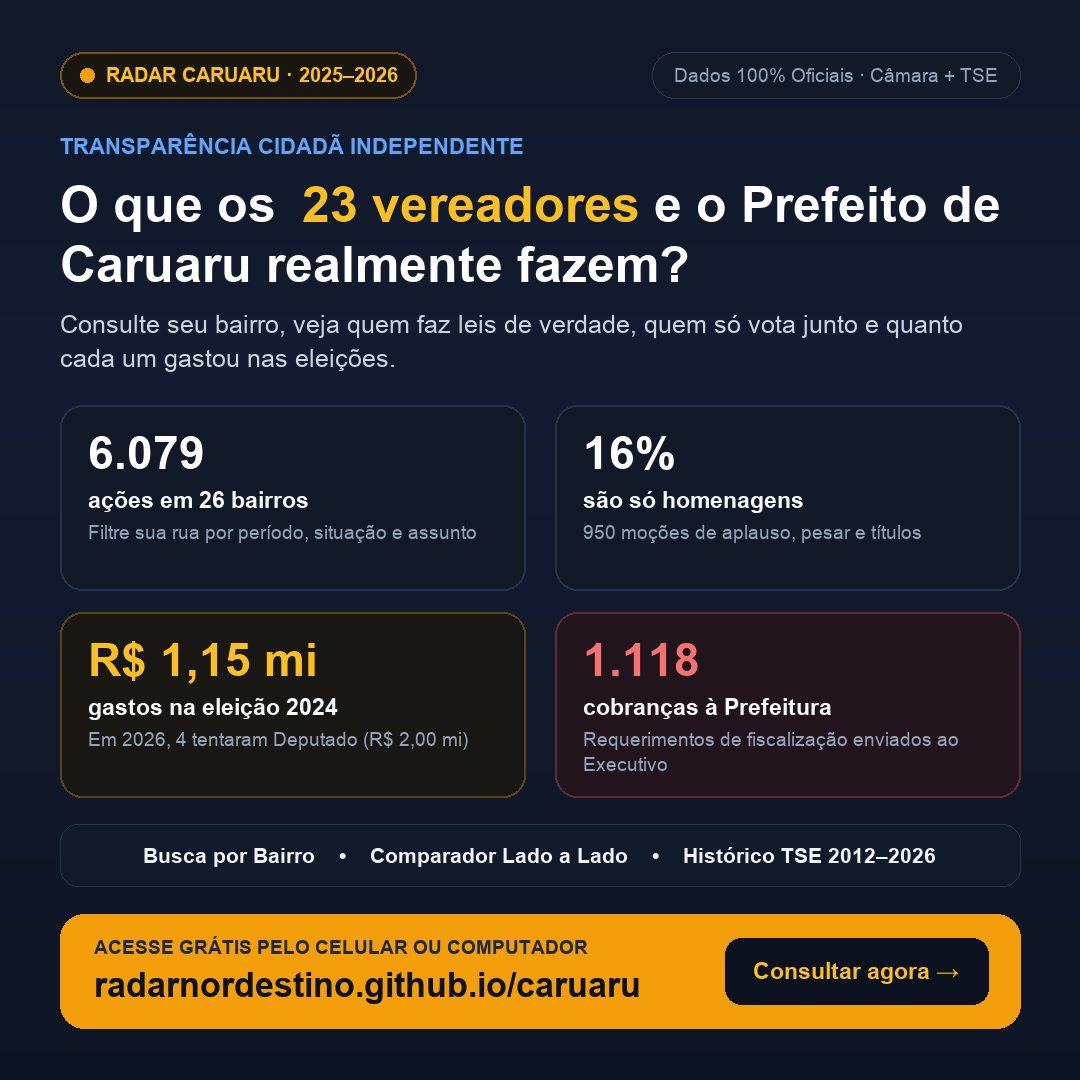
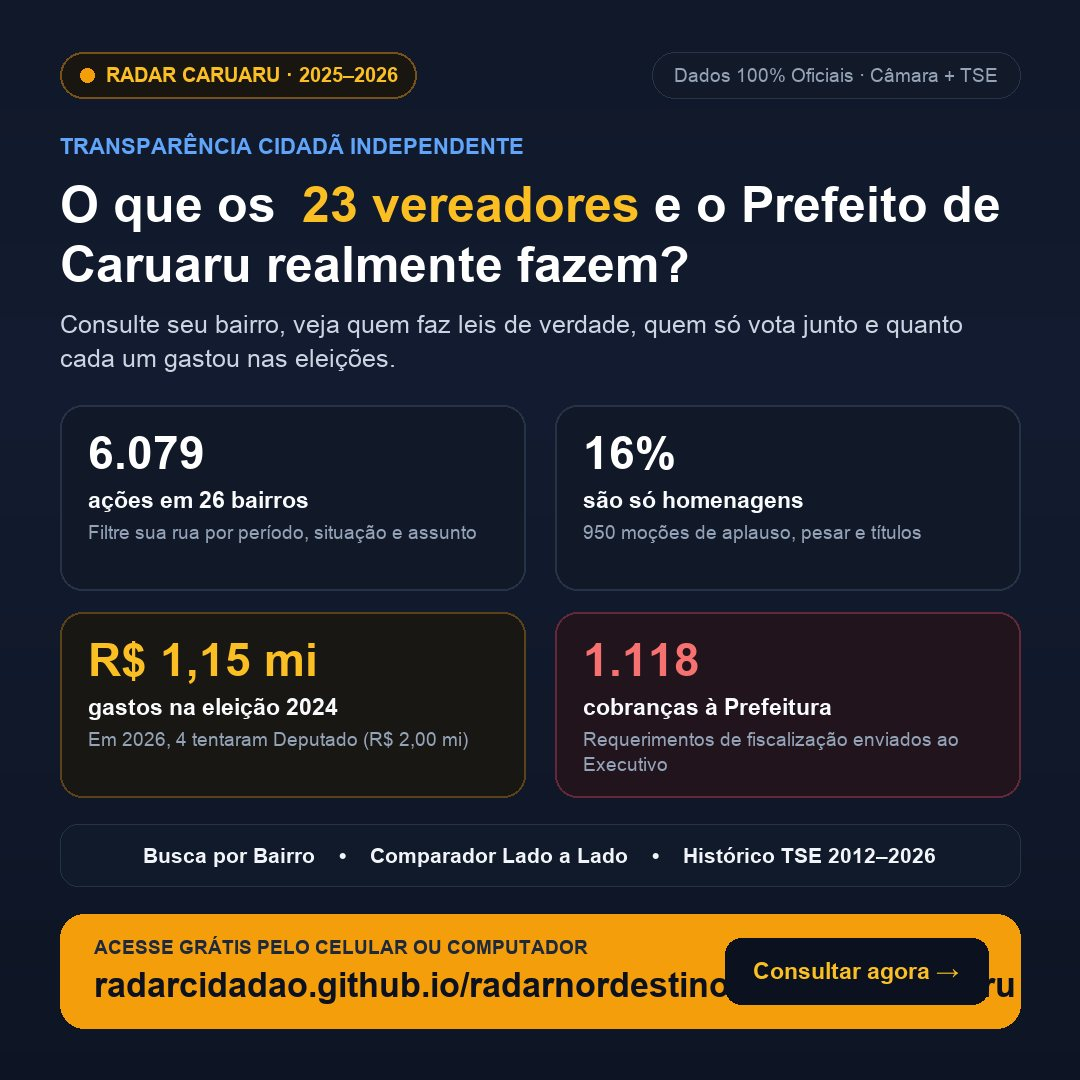
chore: ajustar URL base do GitHub Pages sob radarcidadao

Changed region(s): [[0.1528, 0.8861, 0.6722, 0.9472], [0.9167, 0.8861, 0.9472, 0.9472]]

diff --git a/santoantoniodejesus/index.html b/santoantoniodejesus/index.html
@@ -6,14 +6,14 @@
 <title>Radar Santo Antônio de Jesus — O que os 14 vereadores e o Prefeito realmente fazem</title>
 <meta name="description" content="Consulte seu bairro em Santo Antônio de Jesus, veja quem faz leis de verdade, quem só vota junto e quanto cada vereador gastou nas eleições (dados oficiais Câmara + TSE).">
 <meta property="og:type" content="website">
-<meta property="og:url" content="https://radarnordestino.github.io/santoantoniodejesus/">
+<meta property="og:url" content="https://radarcidadao.github.io/radarnordestino.github.io/santoantoniodejesus/">
 <meta property="og:title" content="Radar Santo Antônio de Jesus — O que os 14 vereadores e o Prefeito fazem?">
 <meta property="og:description" content="Raio-X dos 14 vereadores e do Prefeito de Santo Antônio de Jesus: salários em tempo real, gastos de campanha (R$ 236,2 mil em 2024 no TSE) e canais oficiais de cobrança.">
-<meta property="og:image" content="https://radarnordestino.github.io/santoantoniodejesus/card-whatsapp.jpg">
+<meta property="og:image" content="https://radarcidadao.github.io/radarnordestino.github.io/santoantoniodejesus/card-whatsapp.jpg">
 <meta property="og:image:width" content="1080">
 <meta property="og:image:height" content="1080">
 <meta name="twitter:card" content="summary_large_image">
-<meta name="twitter:image" content="https://radarnordestino.github.io/santoantoniodejesus/card-whatsapp.jpg">
+<meta name="twitter:image" content="https://radarcidadao.github.io/radarnordestino.github.io/santoantoniodejesus/card-whatsapp.jpg">
 <link rel="icon" href="../favicon.ico" sizes="any">
 <link rel="icon" type="image/png" href="../favicon.png">
 <link rel="apple-touch-icon" href="../apple-touch-icon.png">
@@ -842,7 +842,7 @@ const repHTML=g=>`<button class="rp" type="button" data-g="${D.rep.indexOf(g)}">
   <span class="rr">${esc(g.r)}</span><span class="rb">${esc(g.b||CIDADE)}</span>
   <span class="rm"><span class="lab">${esc(THX[g.th]?THX[g.th][1]:'Melhoria')}</span><span>${g.a} ${g.a===1?'vereador pediu':'vereadores pediram'}</span><span>·</span><span>de ${mesAno(g.d0)} a ${mesAno(g.d1)}</span></span><span class="go" style="grid-column:1/-1;color:var(--red);font-weight:700;font-size:14px;margin-top:6px">Ver pedidos e cobrar →</span></button>`;
 const TEMA={luz:'iluminação',asf:'conserto de asfalto',tra:'melhoria no trânsito',agu:'conserto de água e esgoto',lim:'limpeza e poda',cal:'conserto de calçada',laz:'melhoria em praça e área de lazer',sau:'melhoria na saúde',edu:'melhoria em escola',seg:'segurança',bus:'melhoria no ônibus'};
-const SITE=/^https?:/.test(location.protocol)?location.origin+location.pathname:'https://radarnordestino.github.io/santoantoniodejesus/';
+const SITE=/^https?:/.test(location.protocol)?location.origin+location.pathname:'https://radarcidadao.github.io/radarnordestino.github.io/santoantoniodejesus/';
 function openRep(g){
   openSheet('b',THX[g.th]?THX[g.th][2]:'pin',g.r,`${THX[g.th]?THX[g.th][1]:'Melhoria'} · pedido ${g.n} vezes até agora${g.b?' · '+g.b:''}`);
   const cnt=new Map(); g.items.forEach(it=>it[6].forEach(a=>cnt.set(a,(cnt.get(a)||0)+1)));

diff --git a/cruzdasalmas/index.html b/cruzdasalmas/index.html
@@ -6,14 +6,14 @@
 <title>Radar Cruz das Almas — O que os 15 vereadores e o Prefeito realmente fazem</title>
 <meta name="description" content="Consulte seu bairro em Cruz das Almas, veja quem faz leis de verdade, quem só vota junto e quanto cada vereador gastou nas eleições (dados oficiais Câmara + TSE).">
 <meta property="og:type" content="website">
-<meta property="og:url" content="https://radarnordestino.github.io/cruzdasalmas/">
+<meta property="og:url" content="https://radarcidadao.github.io/radarnordestino.github.io/cruzdasalmas/">
 <meta property="og:title" content="Radar Cruz das Almas — O que os 15 vereadores e o Prefeito fazem?">
 <meta property="og:description" content="Raio-X dos 15 vereadores e do Prefeito de Cruz das Almas: salários em tempo real, gastos de campanha (R$ 411,3 mil em 2024 no TSE) e canais oficiais de cobrança.">
-<meta property="og:image" content="https://radarnordestino.github.io/cruzdasalmas/card-whatsapp.jpg">
+<meta property="og:image" content="https://radarcidadao.github.io/radarnordestino.github.io/cruzdasalmas/card-whatsapp.jpg">
 <meta property="og:image:width" content="1080">
 <meta property="og:image:height" content="1080">
 <meta name="twitter:card" content="summary_large_image">
-<meta name="twitter:image" content="https://radarnordestino.github.io/cruzdasalmas/card-whatsapp.jpg">
+<meta name="twitter:image" content="https://radarcidadao.github.io/radarnordestino.github.io/cruzdasalmas/card-whatsapp.jpg">
 <link rel="icon" href="../favicon.ico" sizes="any">
 <link rel="icon" type="image/png" href="../favicon.png">
 <link rel="apple-touch-icon" href="../apple-touch-icon.png">
@@ -842,7 +842,7 @@ const repHTML=g=>`<button class="rp" type="button" data-g="${D.rep.indexOf(g)}">
   <span class="rr">${esc(g.r)}</span><span class="rb">${esc(g.b||CIDADE)}</span>
   <span class="rm"><span class="lab">${esc(THX[g.th]?THX[g.th][1]:'Melhoria')}</span><span>${g.a} ${g.a===1?'vereador pediu':'vereadores pediram'}</span><span>·</span><span>de ${mesAno(g.d0)} a ${mesAno(g.d1)}</span></span><span class="go" style="grid-column:1/-1;color:var(--red);font-weight:700;font-size:14px;margin-top:6px">Ver pedidos e cobrar →</span></button>`;
 const TEMA={luz:'iluminação',asf:'conserto de asfalto',tra:'melhoria no trânsito',agu:'conserto de água e esgoto',lim:'limpeza e poda',cal:'conserto de calçada',laz:'melhoria em praça e área de lazer',sau:'melhoria na saúde',edu:'melhoria em escola',seg:'segurança',bus:'melhoria no ônibus'};
-const SITE=/^https?:/.test(location.protocol)?location.origin+location.pathname:'https://radarnordestino.github.io/cruzdasalmas/';
+const SITE=/^https?:/.test(location.protocol)?location.origin+location.pathname:'https://radarcidadao.github.io/radarnordestino.github.io/cruzdasalmas/';
 function openRep(g){
   openSheet('b',THX[g.th]?THX[g.th][2]:'pin',g.r,`${THX[g.th]?THX[g.th][1]:'Melhoria'} · pedido ${g.n} vezes até agora${g.b?' · '+g.b:''}`);
   const cnt=new Map(); g.items.forEach(it=>it[6].forEach(a=>cnt.set(a,(cnt.get(a)||0)+1)));

diff --git a/campinagrande/index.html b/campinagrande/index.html
@@ -6,14 +6,14 @@
 <title>Radar Campina Grande — O que os 23 vereadores e o Prefeito realmente fazem</title>
 <meta name="description" content="Consulte seu bairro em Campina Grande, veja quem faz leis de verdade, quem só vota junto e quanto cada vereador gastou nas eleições (dados oficiais Câmara + TSE).">
 <meta property="og:type" content="website">
-<meta property="og:url" content="https://radarnordestino.github.io/campinagrande/">
+<meta property="og:url" content="https://radarcidadao.github.io/radarnordestino.github.io/campinagrande/">
 <meta property="og:title" content="Radar Campina Grande — O que os 23 vereadores e o Prefeito fazem?">
 <meta property="og:description" content="6.016 ações em 30 bairros, gastos de campanha (R$ 1,94 mi em 2024 + R$ 2,37 mi dos 5 candidatos a deputado em 2026) e comparador lado a lado.">
-<meta property="og:image" content="https://radarnordestino.github.io/campinagrande/card-whatsapp.jpg">
+<meta property="og:image" content="https://radarcidadao.github.io/radarnordestino.github.io/campinagrande/card-whatsapp.jpg">
 <meta property="og:image:width" content="1080">
 <meta property="og:image:height" content="1080">
 <meta name="twitter:card" content="summary_large_image">
-<meta name="twitter:image" content="https://radarnordestino.github.io/campinagrande/card-whatsapp.jpg">
+<meta name="twitter:image" content="https://radarcidadao.github.io/radarnordestino.github.io/campinagrande/card-whatsapp.jpg">
 <link rel="icon" href="../favicon.ico" sizes="any">
 <link rel="icon" type="image/png" href="../favicon.png">
 <link rel="apple-touch-icon" href="../apple-touch-icon.png">
@@ -842,7 +842,7 @@ const repHTML=g=>`<button class="rp" type="button" data-g="${D.rep.indexOf(g)}">
   <span class="rr">${esc(g.r)}</span><span class="rb">${esc(g.b||CIDADE)}</span>
   <span class="rm"><span class="lab">${esc(THX[g.th]?THX[g.th][1]:'Melhoria')}</span><span>${g.a} ${g.a===1?'vereador pediu':'vereadores pediram'}</span><span>·</span><span>de ${mesAno(g.d0)} a ${mesAno(g.d1)}</span></span><span class="go" style="grid-column:1/-1;color:var(--red);font-weight:700;font-size:14px;margin-top:6px">Ver pedidos e cobrar →</span></button>`;
 const TEMA={luz:'iluminação',asf:'conserto de asfalto',tra:'melhoria no trânsito',agu:'conserto de água e esgoto',lim:'limpeza e poda',cal:'conserto de calçada',laz:'melhoria em praça e área de lazer',sau:'melhoria na saúde',edu:'melhoria em escola',seg:'segurança',bus:'melhoria no ônibus'};
-const SITE=/^https?:/.test(location.protocol)?location.origin+location.pathname:'https://radarnordestino.github.io/campinagrande/';
+const SITE=/^https?:/.test(location.protocol)?location.origin+location.pathname:'https://radarcidadao.github.io/radarnordestino.github.io/campinagrande/';
 function openRep(g){
   openSheet('b',THX[g.th]?THX[g.th][2]:'pin',g.r,`${THX[g.th]?THX[g.th][1]:'Melhoria'} · pedido ${g.n} vezes até agora${g.b?' · '+g.b:''}`);
   const cnt=new Map(); g.items.forEach(it=>it[6].forEach(a=>cnt.set(a,(cnt.get(a)||0)+1)));

diff --git a/maracanau/index.html b/maracanau/index.html
@@ -6,14 +6,14 @@
 <title>Radar Maracanaú — O que os 21 vereadores e o Prefeito realmente fazem</title>
 <meta name="description" content="Consulte seu bairro em Maracanaú, veja quem faz leis de verdade, quem só vota junto e quanto cada vereador gastou nas eleições (dados oficiais Câmara + TSE).">
 <meta property="og:type" content="website">
-<meta property="og:url" content="https://radarnordestino.github.io/maracanau/">
+<meta property="og:url" content="https://radarcidadao.github.io/radarnordestino.github.io/maracanau/">
 <meta property="og:title" content="Radar Maracanaú — O que os 21 vereadores e o Prefeito fazem?">
 <meta property="og:description" content="Raio-X dos 21 vereadores e do Prefeito de Maracanaú: salários em tempo real, gastos de campanha (R$ 1,03 mi em 2024 no TSE) e canais oficiais de cobrança.">
-<meta property="og:image" content="https://radarnordestino.github.io/maracanau/card-whatsapp.jpg">
+<meta property="og:image" content="https://radarcidadao.github.io/radarnordestino.github.io/maracanau/card-whatsapp.jpg">
 <meta property="og:image:width" content="1080">
 <meta property="og:image:height" content="1080">
 <meta name="twitter:card" content="summary_large_image">
-<meta name="twitter:image" content="https://radarnordestino.github.io/maracanau/card-whatsapp.jpg">
+<meta name="twitter:image" content="https://radarcidadao.github.io/radarnordestino.github.io/maracanau/card-whatsapp.jpg">
 <link rel="icon" href="../favicon.ico" sizes="any">
 <link rel="icon" type="image/png" href="../favicon.png">
 <link rel="apple-touch-icon" href="../apple-touch-icon.png">
@@ -842,7 +842,7 @@ const repHTML=g=>`<button class="rp" type="button" data-g="${D.rep.indexOf(g)}">
   <span class="rr">${esc(g.r)}</span><span class="rb">${esc(g.b||CIDADE)}</span>
   <span class="rm"><span class="lab">${esc(THX[g.th]?THX[g.th][1]:'Melhoria')}</span><span>${g.a} ${g.a===1?'vereador pediu':'vereadores pediram'}</span><span>·</span><span>de ${mesAno(g.d0)} a ${mesAno(g.d1)}</span></span><span class="go" style="grid-column:1/-1;color:var(--red);font-weight:700;font-size:14px;margin-top:6px">Ver pedidos e cobrar →</span></button>`;
 const TEMA={luz:'iluminação',asf:'conserto de asfalto',tra:'melhoria no trânsito',agu:'conserto de água e esgoto',lim:'limpeza e poda',cal:'conserto de calçada',laz:'melhoria em praça e área de lazer',sau:'melhoria na saúde',edu:'melhoria em escola',seg:'segurança',bus:'melhoria no ônibus'};
-const SITE=/^https?:/.test(location.protocol)?location.origin+location.pathname:'https://radarnordestino.github.io/maracanau/';
+const SITE=/^https?:/.test(location.protocol)?location.origin+location.pathname:'https://radarcidadao.github.io/radarnordestino.github.io/maracanau/';
 function openRep(g){
   openSheet('b',THX[g.th]?THX[g.th][2]:'pin',g.r,`${THX[g.th]?THX[g.th][1]:'Melhoria'} · pedido ${g.n} vezes até agora${g.b?' · '+g.b:''}`);
   const cnt=new Map(); g.items.forEach(it=>it[6].forEach(a=>cnt.set(a,(cnt.get(a)||0)+1)));

diff --git a/petrolina/index.html b/petrolina/index.html
@@ -6,14 +6,14 @@
 <title>Radar Petrolina — O que os 23 vereadores e o Prefeito realmente fazem</title>
 <meta name="description" content="Consulte seu bairro em Petrolina, veja quem faz leis de verdade, quem só vota junto e quanto cada vereador gastou nas eleições (dados oficiais Câmara + TSE).">
 <meta property="og:type" content="website">
-<meta property="og:url" content="https://radarnordestino.github.io/petrolina/">
+<meta property="og:url" content="https://radarcidadao.github.io/radarnordestino.github.io/petrolina/">
 <meta property="og:title" content="Radar Petrolina — O que os 23 vereadores e o Prefeito fazem?">
 <meta property="og:description" content="Raio-X dos 23 vereadores e do Prefeito de Petrolina: salários em tempo real, gastos de campanha (R$ 772,1 mil em 2024 no TSE) e canais oficiais de cobrança.">
-<meta property="og:image" content="https://radarnordestino.github.io/petrolina/card-whatsapp.jpg">
+<meta property="og:image" content="https://radarcidadao.github.io/radarnordestino.github.io/petrolina/card-whatsapp.jpg">
 <meta property="og:image:width" content="1080">
 <meta property="og:image:height" content="1080">
 <meta name="twitter:card" content="summary_large_image">
-<meta name="twitter:image" content="https://radarnordestino.github.io/petrolina/card-whatsapp.jpg">
+<meta name="twitter:image" content="https://radarcidadao.github.io/radarnordestino.github.io/petrolina/card-whatsapp.jpg">
 <link rel="icon" href="../favicon.ico" sizes="any">
 <link rel="icon" type="image/png" href="../favicon.png">
 <link rel="apple-touch-icon" href="../apple-touch-icon.png">
@@ -842,7 +842,7 @@ const repHTML=g=>`<button class="rp" type="button" data-g="${D.rep.indexOf(g)}">
   <span class="rr">${esc(g.r)}</span><span class="rb">${esc(g.b||CIDADE)}</span>
   <span class="rm"><span class="lab">${esc(THX[g.th]?THX[g.th][1]:'Melhoria')}</span><span>${g.a} ${g.a===1?'vereador pediu':'vereadores pediram'}</span><span>·</span><span>de ${mesAno(g.d0)} a ${mesAno(g.d1)}</span></span><span class="go" style="grid-column:1/-1;color:var(--red);font-weight:700;font-size:14px;margin-top:6px">Ver pedidos e cobrar →</span></button>`;
 const TEMA={luz:'iluminação',asf:'conserto de asfalto',tra:'melhoria no trânsito',agu:'conserto de água e esgoto',lim:'limpeza e poda',cal:'conserto de calçada',laz:'melhoria em praça e área de lazer',sau:'melhoria na saúde',edu:'melhoria em escola',seg:'segurança',bus:'melhoria no ônibus'};
-const SITE=/^https?:/.test(location.protocol)?location.origin+location.pathname:'https://radarnordestino.github.io/petrolina/';
+const SITE=/^https?:/.test(location.protocol)?location.origin+location.pathname:'https://radarcidadao.github.io/radarnordestino.github.io/petrolina/';
 function openRep(g){
   openSheet('b',THX[g.th]?THX[g.th][2]:'pin',g.r,`${THX[g.th]?THX[g.th][1]:'Melhoria'} · pedido ${g.n} vezes até agora${g.b?' · '+g.b:''}`);
   const cnt=new Map(); g.items.forEach(it=>it[6].forEach(a=>cnt.set(a,(cnt.get(a)||0)+1)));

diff --git a/salvador/index.html b/salvador/index.html
@@ -6,14 +6,14 @@
 <title>Radar Salvador — O que os 43 vereadores e o Prefeito realmente fazem</title>
 <meta name="description" content="Consulte seu bairro em Salvador, veja quem faz leis de verdade, quem só vota junto e quanto cada vereador gastou nas eleições (dados oficiais Câmara + TSE).">
 <meta property="og:type" content="website">
-<meta property="og:url" content="https://radarnordestino.github.io/salvador/">
+<meta property="og:url" content="https://radarcidadao.github.io/radarnordestino.github.io/salvador/">
 <meta property="og:title" content="Radar Salvador — O que os 43 vereadores e o Prefeito fazem?">
 <meta property="og:description" content="Raio-X dos 43 vereadores e do Prefeito de Salvador: salários em tempo real, gastos de campanha (R$ 13,67 mi em 2024 no TSE) e canais oficiais de cobrança.">
-<meta property="og:image" content="https://radarnordestino.github.io/salvador/card-whatsapp.jpg">
+<meta property="og:image" content="https://radarcidadao.github.io/radarnordestino.github.io/salvador/card-whatsapp.jpg">
 <meta property="og:image:width" content="1080">
 <meta property="og:image:height" content="1080">
 <meta name="twitter:card" content="summary_large_image">
-<meta name="twitter:image" content="https://radarnordestino.github.io/salvador/card-whatsapp.jpg">
+<meta name="twitter:image" content="https://radarcidadao.github.io/radarnordestino.github.io/salvador/card-whatsapp.jpg">
 <link rel="icon" href="../favicon.ico" sizes="any">
 <link rel="icon" type="image/png" href="../favicon.png">
 <link rel="apple-touch-icon" href="../apple-touch-icon.png">
@@ -842,7 +842,7 @@ const repHTML=g=>`<button class="rp" type="button" data-g="${D.rep.indexOf(g)}">
   <span class="rr">${esc(g.r)}</span><span class="rb">${esc(g.b||CIDADE)}</span>
   <span class="rm"><span class="lab">${esc(THX[g.th]?THX[g.th][1]:'Melhoria')}</span><span>${g.a} ${g.a===1?'vereador pediu':'vereadores pediram'}</span><span>·</span><span>de ${mesAno(g.d0)} a ${mesAno(g.d1)}</span></span><span class="go" style="grid-column:1/-1;color:var(--red);font-weight:700;font-size:14px;margin-top:6px">Ver pedidos e cobrar →</span></button>`;
 const TEMA={luz:'iluminação',asf:'conserto de asfalto',tra:'melhoria no trânsito',agu:'conserto de água e esgoto',lim:'limpeza e poda',cal:'conserto de calçada',laz:'melhoria em praça e área de lazer',sau:'melhoria na saúde',edu:'melhoria em escola',seg:'segurança',bus:'melhoria no ônibus'};
-const SITE=/^https?:/.test(location.protocol)?location.origin+location.pathname:'https://radarnordestino.github.io/salvador/';
+const SITE=/^https?:/.test(location.protocol)?location.origin+location.pathname:'https://radarcidadao.github.io/radarnordestino.github.io/salvador/';
 function openRep(g){
   openSheet('b',THX[g.th]?THX[g.th][2]:'pin',g.r,`${THX[g.th]?THX[g.th][1]:'Melhoria'} · pedido ${g.n} vezes até agora${g.b?' · '+g.b:''}`);
   const cnt=new Map(); g.items.forEach(it=>it[6].forEach(a=>cnt.set(a,(cnt.get(a)||0)+1)));

diff --git a/saoluis/index.html b/saoluis/index.html
@@ -6,14 +6,14 @@
 <title>Radar São Luís — O que os 31 vereadores e o Prefeito realmente fazem</title>
 <meta name="description" content="Consulte seu bairro em São Luís, veja quem faz leis de verdade, quem só vota junto e quanto cada vereador gastou nas eleições (dados oficiais Câmara + TSE).">
 <meta property="og:type" content="website">
-<meta property="og:url" content="https://radarnordestino.github.io/saoluis/">
+<meta property="og:url" content="https://radarcidadao.github.io/radarnordestino.github.io/saoluis/">
 <meta property="og:title" content="Radar São Luís — O que os 31 vereadores e o Prefeito fazem?">
 <meta property="og:description" content="Raio-X dos 31 vereadores e do Prefeito de São Luís: salários em tempo real, gastos de campanha (R$ 7,60 mi em 2024 no TSE) e canais oficiais de cobrança.">
-<meta property="og:image" content="https://radarnordestino.github.io/saoluis/card-whatsapp.jpg">
+<meta property="og:image" content="https://radarcidadao.github.io/radarnordestino.github.io/saoluis/card-whatsapp.jpg">
 <meta property="og:image:width" content="1080">
 <meta property="og:image:height" content="1080">
 <meta name="twitter:card" content="summary_large_image">
-<meta name="twitter:image" content="https://radarnordestino.github.io/saoluis/card-whatsapp.jpg">
+<meta name="twitter:image" content="https://radarcidadao.github.io/radarnordestino.github.io/saoluis/card-whatsapp.jpg">
 <link rel="icon" href="../favicon.ico" sizes="any">
 <link rel="icon" type="image/png" href="../favicon.png">
 <link rel="apple-touch-icon" href="../apple-touch-icon.png">
@@ -842,7 +842,7 @@ const repHTML=g=>`<button class="rp" type="button" data-g="${D.rep.indexOf(g)}">
   <span class="rr">${esc(g.r)}</span><span class="rb">${esc(g.b||CIDADE)}</span>
   <span class="rm"><span class="lab">${esc(THX[g.th]?THX[g.th][1]:'Melhoria')}</span><span>${g.a} ${g.a===1?'vereador pediu':'vereadores pediram'}</span><span>·</span><span>de ${mesAno(g.d0)} a ${mesAno(g.d1)}</span></span><span class="go" style="grid-column:1/-1;color:var(--red);font-weight:700;font-size:14px;margin-top:6px">Ver pedidos e cobrar →</span></button>`;
 const TEMA={luz:'iluminação',asf:'conserto de asfalto',tra:'melhoria no trânsito',agu:'conserto de água e esgoto',lim:'limpeza e poda',cal:'conserto de calçada',laz:'melhoria em praça e área de lazer',sau:'melhoria na saúde',edu:'melhoria em escola',seg:'segurança',bus:'melhoria no ônibus'};
-const SITE=/^https?:/.test(location.protocol)?location.origin+location.pathname:'https://radarnordestino.github.io/saoluis/';
+const SITE=/^https?:/.test(location.protocol)?location.origin+location.pathname:'https://radarcidadao.github.io/radarnordestino.github.io/saoluis/';
 function openRep(g){
   openSheet('b',THX[g.th]?THX[g.th][2]:'pin',g.r,`${THX[g.th]?THX[g.th][1]:'Melhoria'} · pedido ${g.n} vezes até agora${g.b?' · '+g.b:''}`);
   const cnt=new Map(); g.items.forEach(it=>it[6].forEach(a=>cnt.set(a,(cnt.get(a)||0)+1)));

diff --git a/mossoro/index.html b/mossoro/index.html
@@ -6,14 +6,14 @@
 <title>Radar Mossoró — O que os 21 vereadores e o Prefeito realmente fazem</title>
 <meta name="description" content="Consulte seu bairro em Mossoró, veja quem faz leis de verdade, quem só vota junto e quanto cada vereador gastou nas eleições (dados oficiais Câmara + TSE).">
 <meta property="og:type" content="website">
-<meta property="og:url" content="https://radarnordestino.github.io/mossoro/">
+<meta property="og:url" content="https://radarcidadao.github.io/radarnordestino.github.io/mossoro/">
 <meta property="og:title" content="Radar Mossoró — O que os 21 vereadores e o Prefeito fazem?">
 <meta property="og:description" content="Raio-X dos 21 vereadores e do Prefeito de Mossoró: salários em tempo real, gastos de campanha (R$ 1,17 mi em 2024 no TSE) e canais oficiais de cobrança.">
-<meta property="og:image" content="https://radarnordestino.github.io/mossoro/card-whatsapp.jpg">
+<meta property="og:image" content="https://radarcidadao.github.io/radarnordestino.github.io/mossoro/card-whatsapp.jpg">
 <meta property="og:image:width" content="1080">
 <meta property="og:image:height" content="1080">
 <meta name="twitter:card" content="summary_large_image">
-<meta name="twitter:image" content="https://radarnordestino.github.io/mossoro/card-whatsapp.jpg">
+<meta name="twitter:image" content="https://radarcidadao.github.io/radarnordestino.github.io/mossoro/card-whatsapp.jpg">
 <link rel="icon" href="../favicon.ico" sizes="any">
 <link rel="icon" type="image/png" href="../favicon.png">
 <link rel="apple-touch-icon" href="../apple-touch-icon.png">
@@ -842,7 +842,7 @@ const repHTML=g=>`<button class="rp" type="button" data-g="${D.rep.indexOf(g)}">
   <span class="rr">${esc(g.r)}</span><span class="rb">${esc(g.b||CIDADE)}</span>
   <span class="rm"><span class="lab">${esc(THX[g.th]?THX[g.th][1]:'Melhoria')}</span><span>${g.a} ${g.a===1?'vereador pediu':'vereadores pediram'}</span><span>·</span><span>de ${mesAno(g.d0)} a ${mesAno(g.d1)}</span></span><span class="go" style="grid-column:1/-1;color:var(--red);font-weight:700;font-size:14px;margin-top:6px">Ver pedidos e cobrar →</span></button>`;
 const TEMA={luz:'iluminação',asf:'conserto de asfalto',tra:'melhoria no trânsito',agu:'conserto de água e esgoto',lim:'limpeza e poda',cal:'conserto de calçada',laz:'melhoria em praça e área de lazer',sau:'melhoria na saúde',edu:'melhoria em escola',seg:'segurança',bus:'melhoria no ônibus'};
-const SITE=/^https?:/.test(location.protocol)?location.origin+location.pathname:'https://radarnordestino.github.io/mossoro/';
+const SITE=/^https?:/.test(location.protocol)?location.origin+location.pathname:'https://radarcidadao.github.io/radarnordestino.github.io/mossoro/';
 function openRep(g){
   openSheet('b',THX[g.th]?THX[g.th][2]:'pin',g.r,`${THX[g.th]?THX[g.th][1]:'Melhoria'} · pedido ${g.n} vezes até agora${g.b?' · '+g.b:''}`);
   const cnt=new Map(); g.items.forEach(it=>it[6].forEach(a=>cnt.set(a,(cnt.get(a)||0)+1)));

diff --git a/aracaju/index.html b/aracaju/index.html
@@ -6,14 +6,14 @@
 <title>Radar Aracaju — O que os 26 vereadores e o Prefeito realmente fazem</title>
 <meta name="description" content="Consulte seu bairro em Aracaju, veja quem faz leis de verdade, quem só vota junto e quanto cada vereador gastou nas eleições (dados oficiais Câmara + TSE).">
 <meta property="og:type" content="website">
-<meta property="og:url" content="https://radarnordestino.github.io/aracaju/">
+<meta property="og:url" content="https://radarcidadao.github.io/radarnordestino.github.io/aracaju/">
 <meta property="og:title" content="Radar Aracaju — O que os 26 vereadores e o Prefeito fazem?">
 <meta property="og:description" content="Raio-X dos 26 vereadores e do Prefeito de Aracaju: salários em tempo real, gastos de campanha (R$ 4,56 mi em 2024 no TSE) e canais oficiais de cobrança.">
-<meta property="og:image" content="https://radarnordestino.github.io/aracaju/card-whatsapp.jpg">
+<meta property="og:image" content="https://radarcidadao.github.io/radarnordestino.github.io/aracaju/card-whatsapp.jpg">
 <meta property="og:image:width" content="1080">
 <meta property="og:image:height" content="1080">
 <meta name="twitter:card" content="summary_large_image">
-<meta name="twitter:image" content="https://radarnordestino.github.io/aracaju/card-whatsapp.jpg">
+<meta name="twitter:image" content="https://radarcidadao.github.io/radarnordestino.github.io/aracaju/card-whatsapp.jpg">
 <link rel="icon" href="../favicon.ico" sizes="any">
 <link rel="icon" type="image/png" href="../favicon.png">
 <link rel="apple-touch-icon" href="../apple-touch-icon.png">
@@ -842,7 +842,7 @@ const repHTML=g=>`<button class="rp" type="button" data-g="${D.rep.indexOf(g)}">
   <span class="rr">${esc(g.r)}</span><span class="rb">${esc(g.b||CIDADE)}</span>
   <span class="rm"><span class="lab">${esc(THX[g.th]?THX[g.th][1]:'Melhoria')}</span><span>${g.a} ${g.a===1?'vereador pediu':'vereadores pediram'}</span><span>·</span><span>de ${mesAno(g.d0)} a ${mesAno(g.d1)}</span></span><span class="go" style="grid-column:1/-1;color:var(--red);font-weight:700;font-size:14px;margin-top:6px">Ver pedidos e cobrar →</span></button>`;
 const TEMA={luz:'iluminação',asf:'conserto de asfalto',tra:'melhoria no trânsito',agu:'conserto de água e esgoto',lim:'limpeza e poda',cal:'conserto de calçada',laz:'melhoria em praça e área de lazer',sau:'melhoria na saúde',edu:'melhoria em escola',seg:'segurança',bus:'melhoria no ônibus'};
-const SITE=/^https?:/.test(location.protocol)?location.origin+location.pathname:'https://radarnordestino.github.io/aracaju/';
+const SITE=/^https?:/.test(location.protocol)?location.origin+location.pathname:'https://radarcidadao.github.io/radarnordestino.github.io/aracaju/';
 function openRep(g){
   openSheet('b',THX[g.th]?THX[g.th][2]:'pin',g.r,`${THX[g.th]?THX[g.th][1]:'Melhoria'} · pedido ${g.n} vezes até agora${g.b?' · '+g.b:''}`);
   const cnt=new Map(); g.items.forEach(it=>it[6].forEach(a=>cnt.set(a,(cnt.get(a)||0)+1)));

diff --git a/maceio/index.html b/maceio/index.html
@@ -6,14 +6,14 @@
 <title>Radar Maceió — O que os 27 vereadores e o Prefeito realmente fazem</title>
 <meta name="description" content="Consulte seu bairro em Maceió, veja quem faz leis de verdade, quem só vota junto e quanto cada vereador gastou nas eleições (dados oficiais Câmara + TSE).">
 <meta property="og:type" content="website">
-<meta property="og:url" content="https://radarnordestino.github.io/maceio/">
+<meta property="og:url" content="https://radarcidadao.github.io/radarnordestino.github.io/maceio/">
 <meta property="og:title" content="Radar Maceió — O que os 27 vereadores e o Prefeito fazem?">
 <meta property="og:description" content="Raio-X dos 27 vereadores e do Prefeito de Maceió: salários em tempo real, gastos de campanha (R$ 6,60 mi em 2024 no TSE) e canais oficiais de cobrança.">
-<meta property="og:image" content="https://radarnordestino.github.io/maceio/card-whatsapp.jpg">
+<meta property="og:image" content="https://radarcidadao.github.io/radarnordestino.github.io/maceio/card-whatsapp.jpg">
 <meta property="og:image:width" content="1080">
 <meta property="og:image:height" content="1080">
 <meta name="twitter:card" content="summary_large_image">
-<meta name="twitter:image" content="https://radarnordestino.github.io/maceio/card-whatsapp.jpg">
+<meta name="twitter:image" content="https://radarcidadao.github.io/radarnordestino.github.io/maceio/card-whatsapp.jpg">
 <link rel="icon" href="../favicon.ico" sizes="any">
 <link rel="icon" type="image/png" href="../favicon.png">
 <link rel="apple-touch-icon" href="../apple-touch-icon.png">
@@ -842,7 +842,7 @@ const repHTML=g=>`<button class="rp" type="button" data-g="${D.rep.indexOf(g)}">
   <span class="rr">${esc(g.r)}</span><span class="rb">${esc(g.b||CIDADE)}</span>
   <span class="rm"><span class="lab">${esc(THX[g.th]?THX[g.th][1]:'Melhoria')}</span><span>${g.a} ${g.a===1?'vereador pediu':'vereadores pediram'}</span><span>·</span><span>de ${mesAno(g.d0)} a ${mesAno(g.d1)}</span></span><span class="go" style="grid-column:1/-1;color:var(--red);font-weight:700;font-size:14px;margin-top:6px">Ver pedidos e cobrar →</span></button>`;
 const TEMA={luz:'iluminação',asf:'conserto de asfalto',tra:'melhoria no trânsito',agu:'conserto de água e esgoto',lim:'limpeza e poda',cal:'conserto de calçada',laz:'melhoria em praça e área de lazer',sau:'melhoria na saúde',edu:'melhoria em escola',seg:'segurança',bus:'melhoria no ônibus'};
-const SITE=/^https?:/.test(location.protocol)?location.origin+location.pathname:'https://radarnordestino.github.io/maceio/';
+const SITE=/^https?:/.test(location.protocol)?location.origin+location.pathname:'https://radarcidadao.github.io/radarnordestino.github.io/maceio/';
 function openRep(g){
   openSheet('b',THX[g.th]?THX[g.th][2]:'pin',g.r,`${THX[g.th]?THX[g.th][1]:'Melhoria'} · pedido ${g.n} vezes até agora${g.b?' · '+g.b:''}`);
   const cnt=new Map(); g.items.forEach(it=>it[6].forEach(a=>cnt.set(a,(cnt.get(a)||0)+1)));

diff --git a/caruaru/index.html b/caruaru/index.html
@@ -6,14 +6,14 @@
 <title>Radar Caruaru — O que os 23 vereadores e o Prefeito realmente fazem</title>
 <meta name="description" content="Consulte seu bairro em Caruaru, veja quem faz leis de verdade, quem só vota junto e quanto cada vereador gastou nas eleições (dados oficiais Câmara + TSE).">
 <meta property="og:type" content="website">
-<meta property="og:url" content="https://radarnordestino.github.io/caruaru/">
+<meta property="og:url" content="https://radarcidadao.github.io/radarnordestino.github.io/caruaru/">
 <meta property="og:title" content="Radar Caruaru — O que os 23 vereadores e o Prefeito fazem?">
 <meta property="og:description" content="6.079 ações em 26 bairros, gastos de campanha (R$ 1,15 mi em 2024 + R$ 2,00 mi dos 4 candidatos a deputado em 2026) e comparador lado a lado.">
-<meta property="og:image" content="https://radarnordestino.github.io/caruaru/card-whatsapp.jpg">
+<meta property="og:image" content="https://radarcidadao.github.io/radarnordestino.github.io/caruaru/card-whatsapp.jpg">
 <meta property="og:image:width" content="1080">
 <meta property="og:image:height" content="1080">
 <meta name="twitter:card" content="summary_large_image">
-<meta name="twitter:image" content="https://radarnordestino.github.io/caruaru/card-whatsapp.jpg">
+<meta name="twitter:image" content="https://radarcidadao.github.io/radarnordestino.github.io/caruaru/card-whatsapp.jpg">
 <link rel="icon" href="../favicon.ico" sizes="any">
 <link rel="icon" type="image/png" href="../favicon.png">
 <link rel="apple-touch-icon" href="../apple-touch-icon.png">
@@ -842,7 +842,7 @@ const repHTML=g=>`<button class="rp" type="button" data-g="${D.rep.indexOf(g)}">
   <span class="rr">${esc(g.r)}</span><span class="rb">${esc(g.b||CIDADE)}</span>
   <span class="rm"><span class="lab">${esc(THX[g.th]?THX[g.th][1]:'Melhoria')}</span><span>${g.a} ${g.a===1?'vereador pediu':'vereadores pediram'}</span><span>·</span><span>de ${mesAno(g.d0)} a ${mesAno(g.d1)}</span></span><span class="go" style="grid-column:1/-1;color:var(--red);font-weight:700;font-size:14px;margin-top:6px">Ver pedidos e cobrar →</span></button>`;
 const TEMA={luz:'iluminação',asf:'conserto de asfalto',tra:'melhoria no trânsito',agu:'conserto de água e esgoto',lim:'limpeza e poda',cal:'conserto de calçada',laz:'melhoria em praça e área de lazer',sau:'melhoria na saúde',edu:'melhoria em escola',seg:'segurança',bus:'melhoria no ônibus'};
-const SITE=/^https?:/.test(location.protocol)?location.origin+location.pathname:'https://radarnordestino.github.io/caruaru/';
+const SITE=/^https?:/.test(location.protocol)?location.origin+location.pathname:'https://radarcidadao.github.io/radarnordestino.github.io/caruaru/';
 function openRep(g){
   openSheet('b',THX[g.th]?THX[g.th][2]:'pin',g.r,`${THX[g.th]?THX[g.th][1]:'Melhoria'} · pedido ${g.n} vezes até agora${g.b?' · '+g.b:''}`);
   const cnt=new Map(); g.items.forEach(it=>it[6].forEach(a=>cnt.set(a,(cnt.get(a)||0)+1)));

diff --git a/irece/index.html b/irece/index.html
@@ -6,14 +6,14 @@
 <title>Radar Irecê — O que os 15 vereadores e o Prefeito realmente fazem</title>
 <meta name="description" content="Consulte seu bairro em Irecê, veja quem faz leis de verdade, quem só vota junto e quanto cada vereador gastou nas eleições (dados oficiais Câmara + TSE).">
 <meta property="og:type" content="website">
-<meta property="og:url" content="https://radarnordestino.github.io/irece/">
+<meta property="og:url" content="https://radarcidadao.github.io/radarnordestino.github.io/irece/">
 <meta property="og:title" content="Radar Irecê — O que os 15 vereadores e o Prefeito fazem?">
 <meta property="og:description" content="Raio-X dos 15 vereadores e do Prefeito de Irecê: salários em tempo real, gastos de campanha (R$ 199,2 mil em 2024 no TSE) e canais oficiais de cobrança.">
-<meta property="og:image" content="https://radarnordestino.github.io/irece/card-whatsapp.jpg">
+<meta property="og:image" content="https://radarcidadao.github.io/radarnordestino.github.io/irece/card-whatsapp.jpg">
 <meta property="og:image:width" content="1080">
 <meta property="og:image:height" content="1080">
 <meta name="twitter:card" content="summary_large_image">
-<meta name="twitter:image" content="https://radarnordestino.github.io/irece/card-whatsapp.jpg">
+<meta name="twitter:image" content="https://radarcidadao.github.io/radarnordestino.github.io/irece/card-whatsapp.jpg">
 <link rel="icon" href="../favicon.ico" sizes="any">
 <link rel="icon" type="image/png" href="../favicon.png">
 <link rel="apple-touch-icon" href="../apple-touch-icon.png">
@@ -842,7 +842,7 @@ const repHTML=g=>`<button class="rp" type="button" data-g="${D.rep.indexOf(g)}">
   <span class="rr">${esc(g.r)}</span><span class="rb">${esc(g.b||CIDADE)}</span>
   <span class="rm"><span class="lab">${esc(THX[g.th]?THX[g.th][1]:'Melhoria')}</span><span>${g.a} ${g.a===1?'vereador pediu':'vereadores pediram'}</span><span>·</span><span>de ${mesAno(g.d0)} a ${mesAno(g.d1)}</span></span><span class="go" style="grid-column:1/-1;color:var(--red);font-weight:700;font-size:14px;margin-top:6px">Ver pedidos e cobrar →</span></button>`;
 const TEMA={luz:'iluminação',asf:'conserto de asfalto',tra:'melhoria no trânsito',agu:'conserto de água e esgoto',lim:'limpeza e poda',cal:'conserto de calçada',laz:'melhoria em praça e área de lazer',sau:'melhoria na saúde',edu:'melhoria em escola',seg:'segurança',bus:'melhoria no ônibus'};
-const SITE=/^https?:/.test(location.protocol)?location.origin+location.pathname:'https://radarnordestino.github.io/irece/';
+const SITE=/^https?:/.test(location.protocol)?location.origin+location.pathname:'https://radarcidadao.github.io/radarnordestino.github.io/irece/';
 function openRep(g){
   openSheet('b',THX[g.th]?THX[g.th][2]:'pin',g.r,`${THX[g.th]?THX[g.th][1]:'Melhoria'} · pedido ${g.n} vezes até agora${g.b?' · '+g.b:''}`);
   const cnt=new Map(); g.items.forEach(it=>it[6].forEach(a=>cnt.set(a,(cnt.get(a)||0)+1)));
